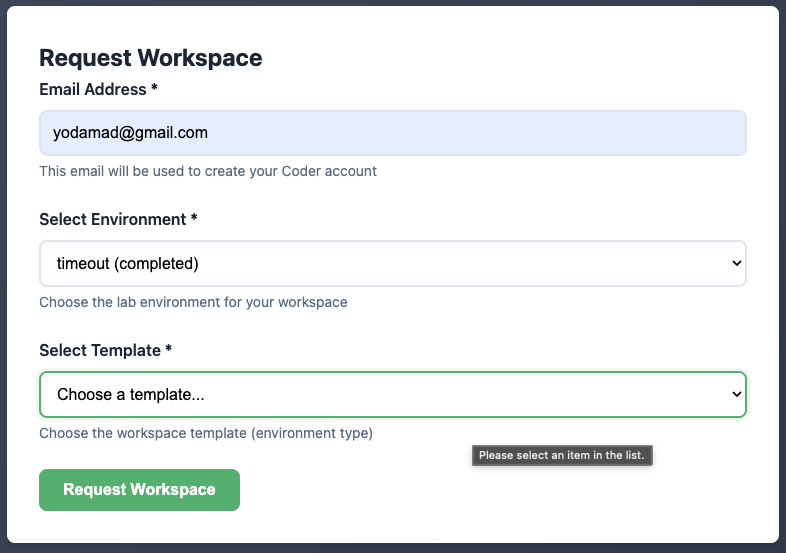
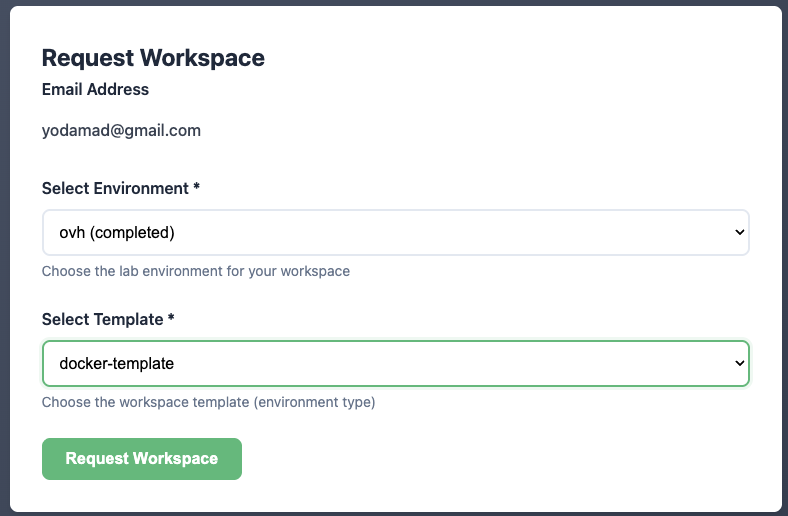
📑 Update student area

Changed region(s): [[0.0, 0.0, 1.0, 0.9922], [0.5802, 0.8062, 0.855, 0.8682]]

diff --git a/docs/student.md b/docs/student.md
@@ -8,15 +8,27 @@ As a student, you have access to the student space to request new development en
 
 You can request **one workspace per template per lab**. If a lab has multiple templates (e.g. Docker, Go), you can request one workspace for each — so multiple workspaces in the same lab. Across different labs you can have even more workspaces running simultaneously.
 
+## Login
+
+To access the student portal, you must log in with:
+
+* **Email** — your email address (used to identify you and create your Coder account)
+* **Student Password** — provided by the workshop organiser
+
+Your email is validated on submission and stored in your session. It will be pre-filled automatically on all subsequent pages so you don't need to enter it again.
+
+![Student Login](screens/student-login.png){width=45%}
+
 ## Request a new development environment
 
 The request a new development environment page is the main page of the student space. It allows you to request a new development environment.
 
 You need to provide:
 
-* [x] your email address
 * [x] the lab (environment) you want to use
 * [x] the **template** (when the lab has multiple templates, a template dropdown appears — choose the workspace type you want)
+
+Your email address is automatically filled in from your login session and is not editable on this form.
 
 Then, you'll get all information needed to connect to your workspace!
 
@@ -32,7 +44,7 @@ You can store the workspace information in a secured cookie in your browser to b
 
 ## My Workspaces
 
-When you have saved at least one workspace, the **My Workspaces** panel appears at the top of the student portal. It displays a card for each workspace you have requested — across different labs and different templates within the same lab.
+When you have saved at least one workspace, the **My Workspaces** panel appears at the top of the student portal. It displays a card for each workspace you have requested — across different labs and different templates within the same lab. Only workspaces matching your logged-in email are shown.
 
 ### Workspace cards
 
